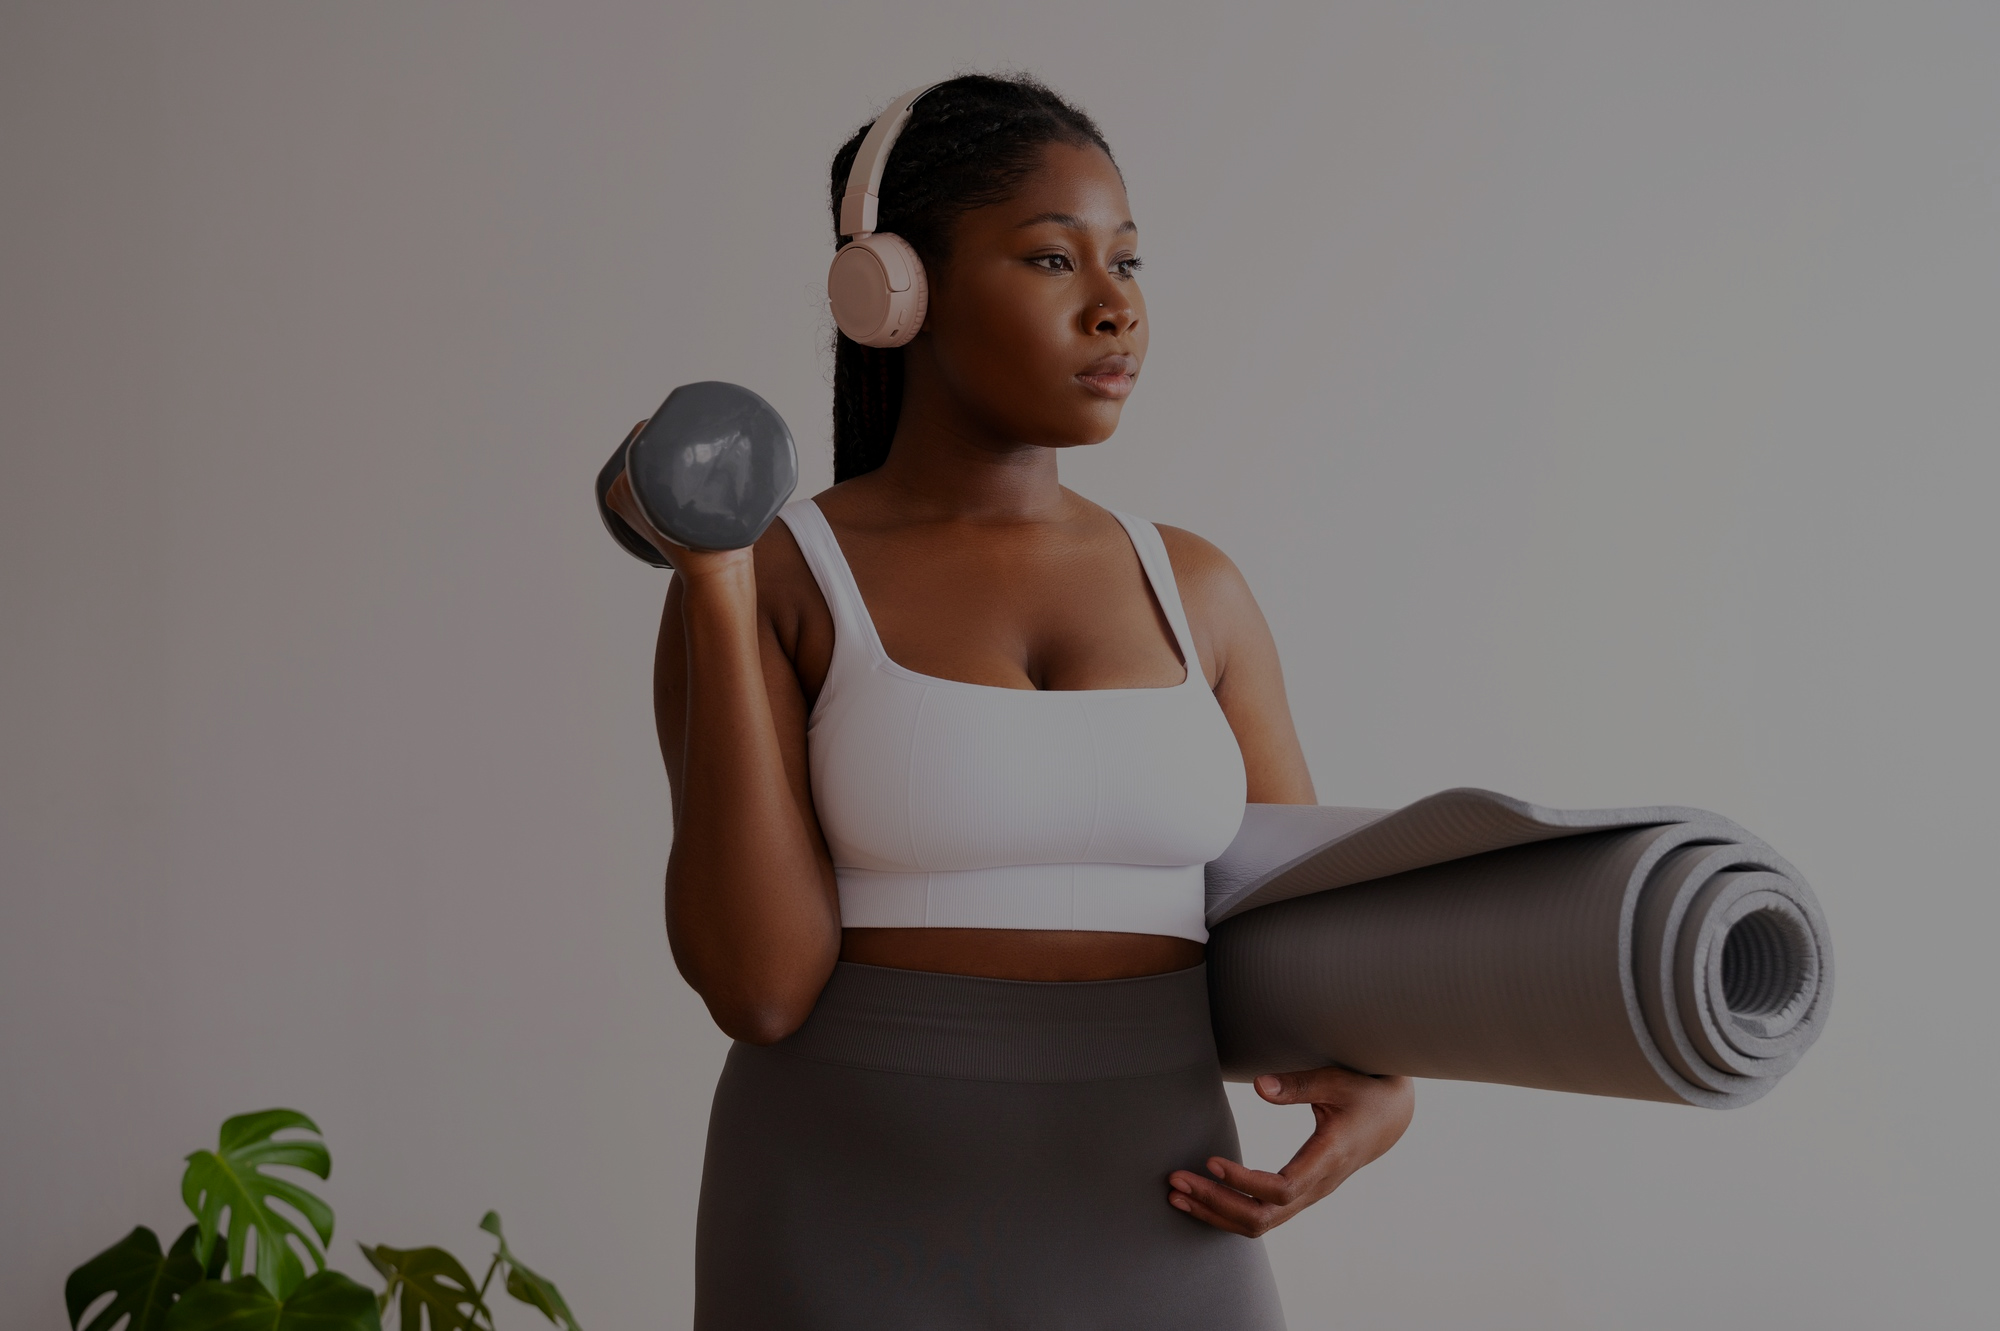
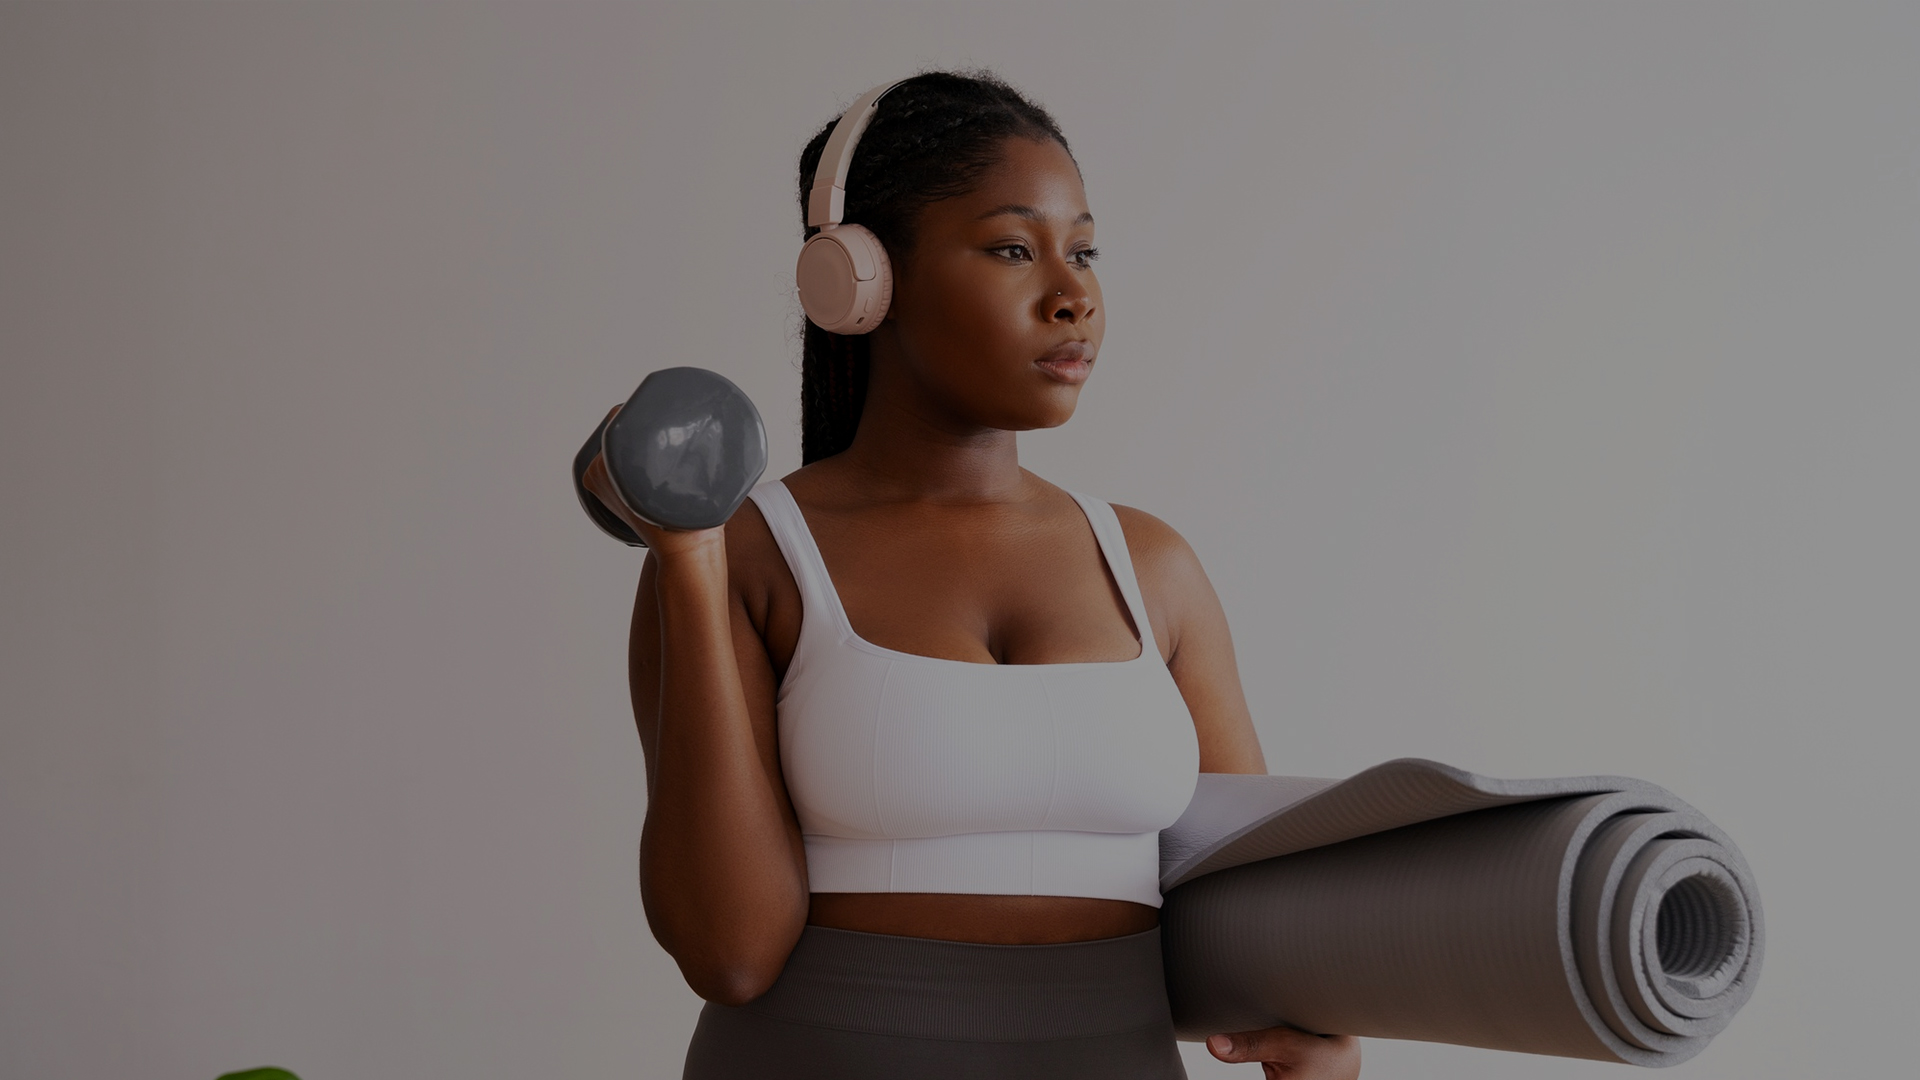
new

Changed region(s): [[0.2812, 0.0306, 0.9375, 1.0], [0.0312, 0.825, 0.3125, 1.0]]

diff --git a/index.html b/index.html
@@ -8,7 +8,7 @@
     <link href="https://cdn.jsdelivr.net/npm/bootstrap@5.3.7/dist/css/bootstrap.min.css" rel="stylesheet" integrity="sha384-LN+7fdVzj6u52u30Kp6M/trliBMCMKTyK833zpbD+pXdCLuTusPj697FH4R/5mcr" crossorigin="anonymous">
     <link rel="stylesheet" href="bmi.css">
 </head>
-<body>
+<body >
     <!-- <div class="Hmain">
         <div class="Hright">
             <div class="welbot">
@@ -163,28 +163,29 @@
 </div>  -->
 
 
-<div class="container row">
-        <div class="welrs col">
-            <div class="c">
-                <img width="100px" src="./images/christmas-gift-character.png" alt="">
+<div class="maind" >
+    <div class="mainc">
+        <div>
+            <div class=" left-s">
+            <img src="./images/christmas-gift-character.png" alt="">
+            <h1>Welcome</h1>
             </div>
-            <h3>Welcome!</h3>
         </div>
         
-        <div class="card col">
-            <div class="">
-                <div class="">
-                    <div class="">
-                        <P>What is your name?</P>
-                        <input id="username" type="text"> 
-                    </div>
-                    </div>
+        
+        <div class="right-s">
+            <div class="right-sc">
+              
+                    <P>What is your name?</P>
+                    <input id="username" type="text" > 
+                
                 <button onclick="next()" class="next">
-                    <a href="./bmi.html">Next</a>
+                    <a href="./bmi.html" >Next</a>
                 </button>
             </div>
         </div>
- </div>
+    </div>
+</div>
     <script src="BMI.js"></script>
     <script src="https://cdn.jsdelivr.net/npm/bootstrap@5.3.7/dist/js/bootstrap.bundle.min.js" integrity="sha384-ndDqU0Gzau9qJ1lfW4pNLlhNTkCfHzAVBReH9diLvGRem5+R9g2FzA8ZGN954O5Q" crossorigin="anonymous"></script>
 </body>

diff --git a/bmi.css b/bmi.css
@@ -3,28 +3,87 @@
     padding: 0;
 }
 
-
 h1, p , h2, h3, h4, h5, h6, label{
-    font-family:poppins;
+    font-family: poppins, sans-serif;
 }
 
 body{
     background-image: url(./images/2150404923.jpg);
-    background-size: auto;
-    background-repeat: no-repeat;
-    background-position: center;
     background-size: cover;
+    background-position: center;
+    background-repeat: no-repeat;
+    background-attachment: fixed;
+    width: 100%;
+    height: 100vh;
+    overflow: hidden; 
 }
 
 /* BMI HOME */
 
 .welrs{
-    width: 900px;
-    height: 100vh;
-    padding: 0;
+    display: flex;
+    border-radius: 20px;
+    text-align: center;
   
-   top: 150px;
-   left: 100px;
+}
+.maind {
+
+  position: relative;
+  top: 50%;
+  left: 50%;
+  transform: translate(-50%,-50%);
+  
+}
+.mainc{
+    min-width: 300px;
+    justify-content: center;
+    align-items: center;
+    display: flex ;
+    justify-content: space-around ;
+    flex-wrap: wrap;
+    align-items: center;
+
+}
+
+.left-s{
+    width: 500px;
+    height: 500px;
+    border-radius: 10%;
+    display: flex;
+    flex-direction: column-reverse;
+    align-items: center;
+    justify-content: center;
+     box-shadow: 0 10px 25px rgba(0, 0, 0, 0.3);
+    backdrop-filter: blur(10px);
+    
+}
+.left-s h1{
+    color: #ffffff;
+}
+.right-s{
+    width: 300px;
+    height: 400px;
+    background-color: white;
+
+}
+
+.right-sc{
+    padding: 40px;
+}
+
+
+
+.left-s img{
+    width: 300px;
+    height: auto;
+}
+
+
+.welrs h3 {
+    color: white;
+    font-weight: 600;
+    font-size: 2rem;
+    margin: 0;
 }
 
 
